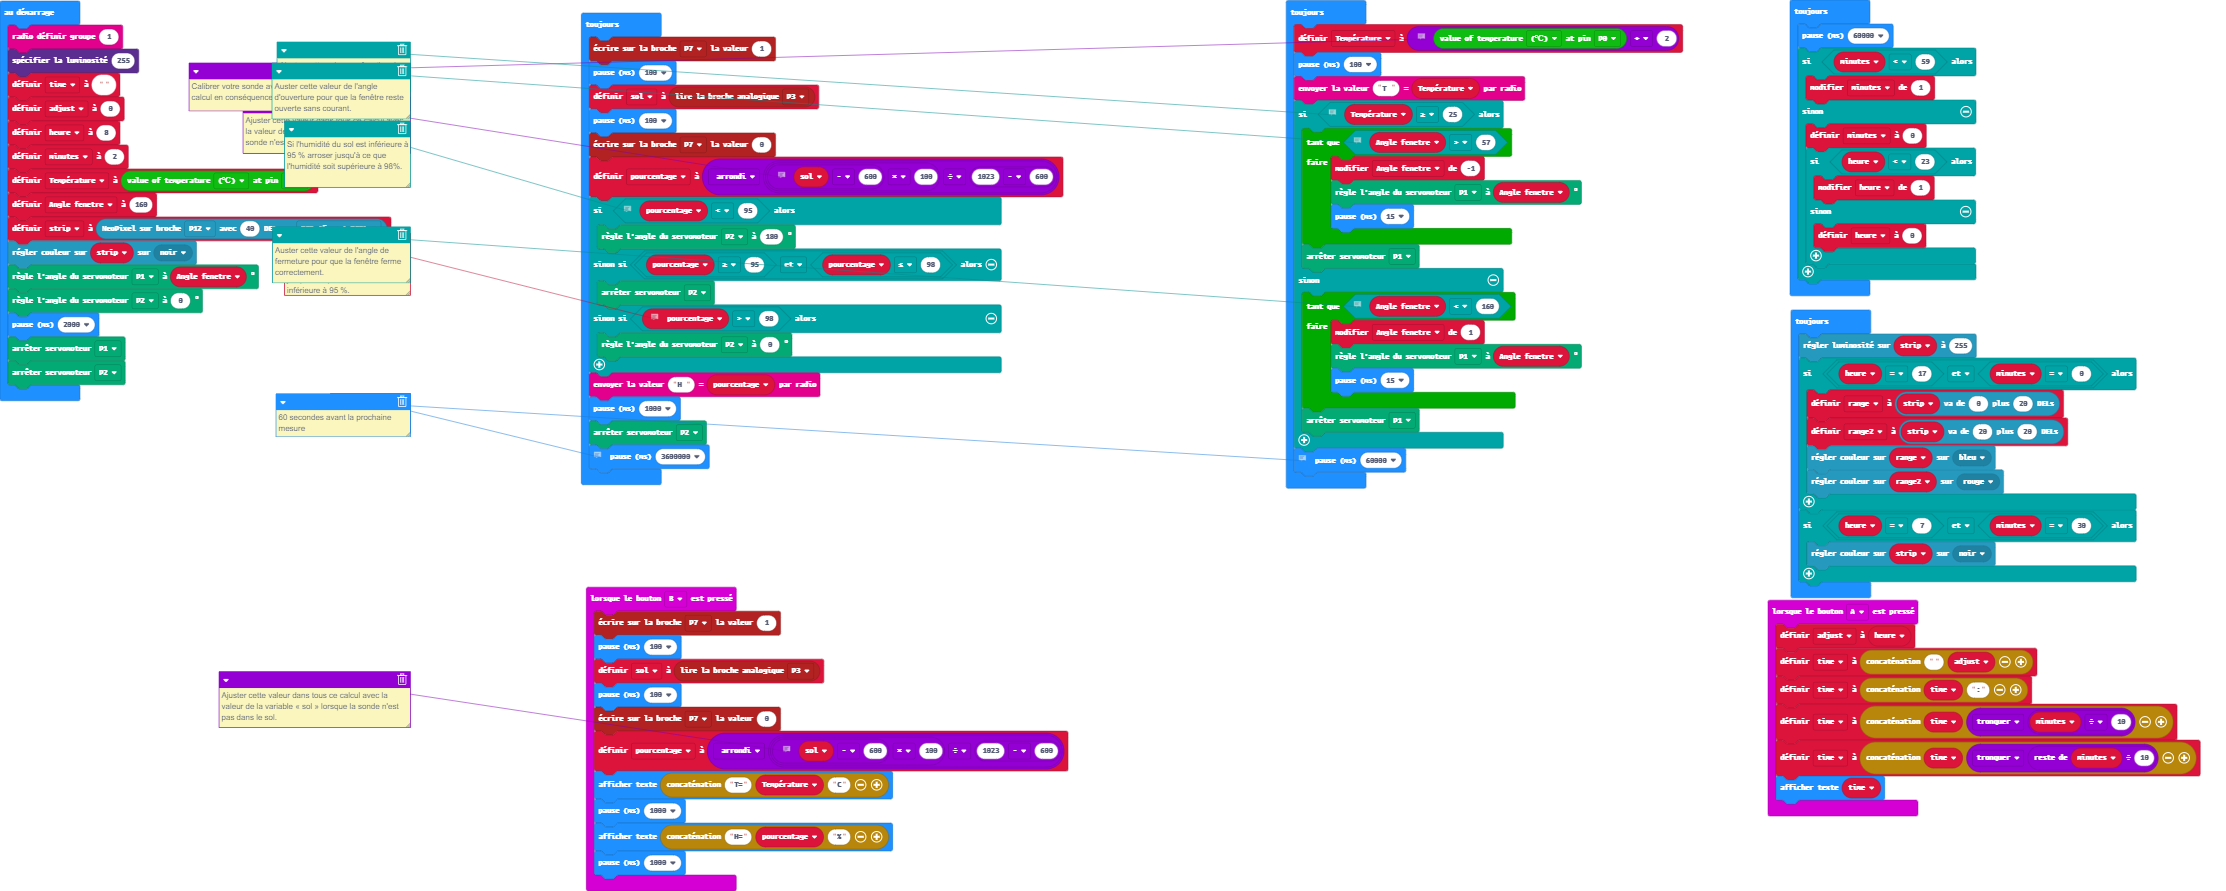
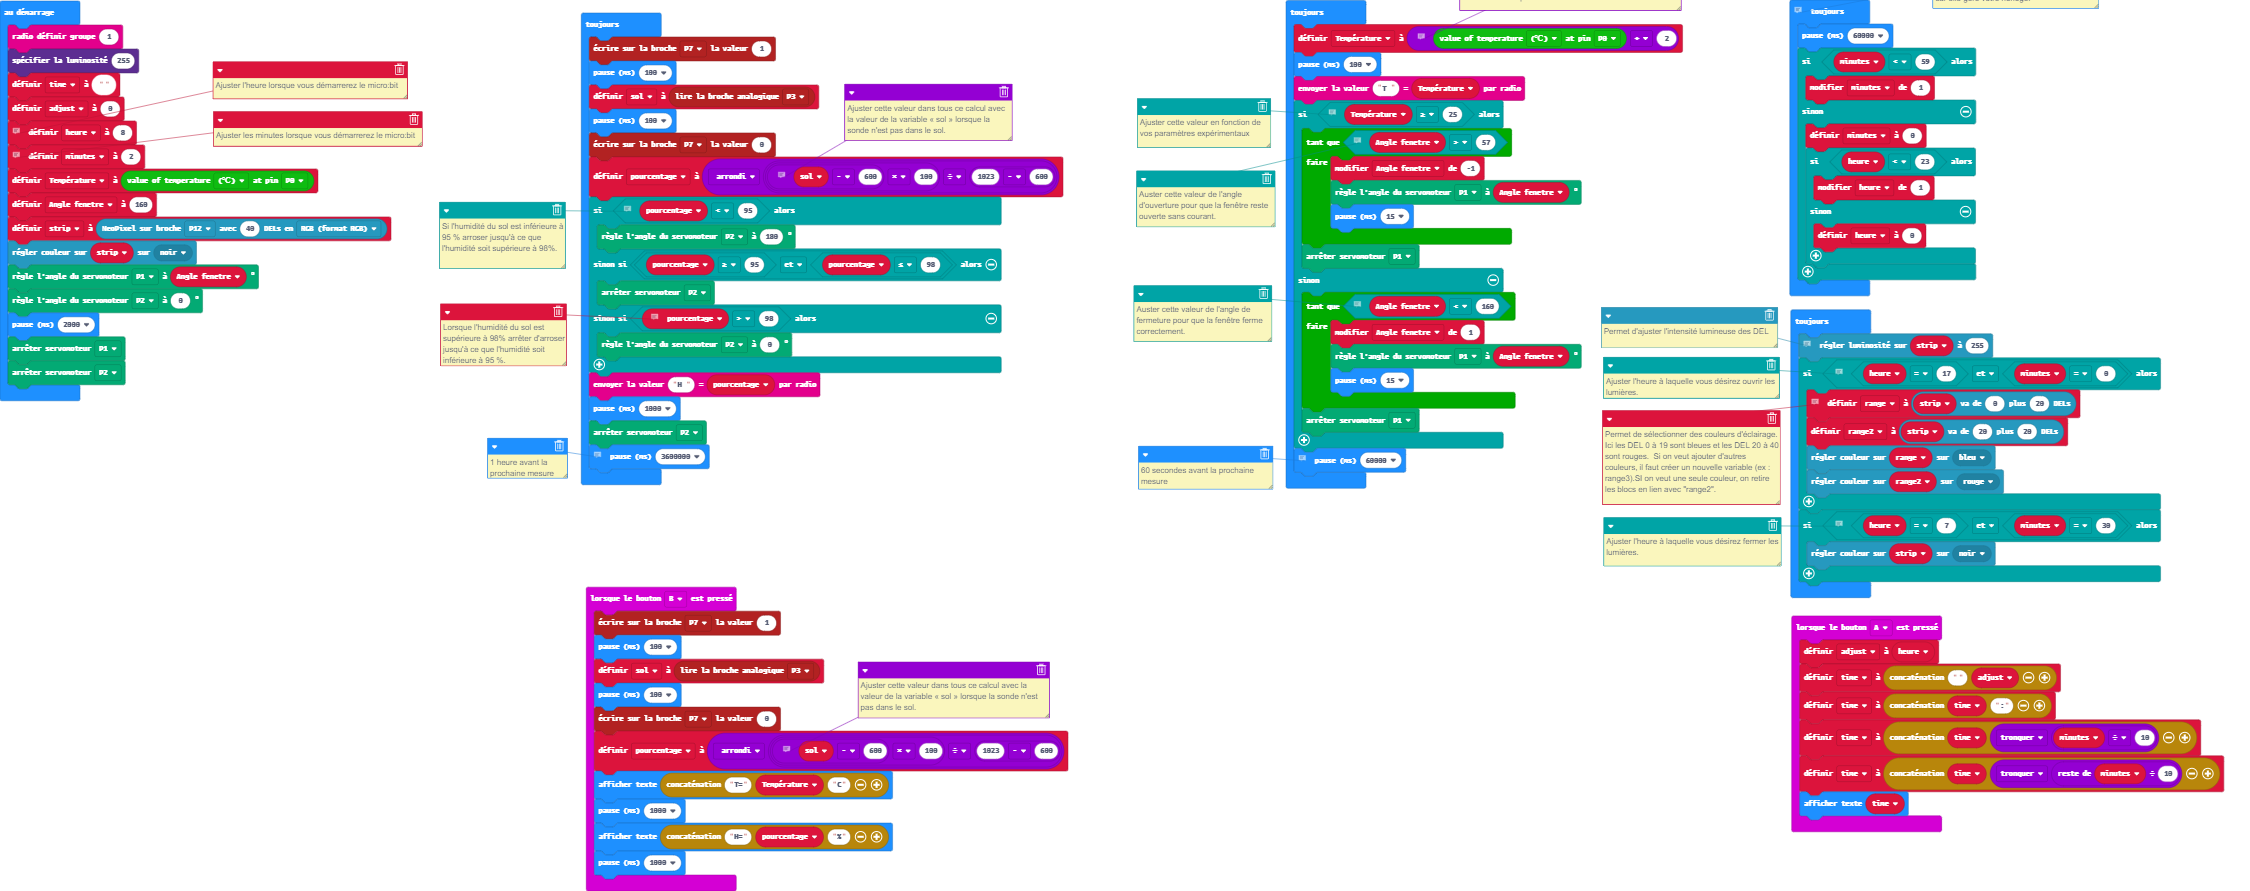
Mise à jour main.blocks, main.ts

diff --git a/main.ts b/main.ts
@@ -32,7 +32,9 @@ radio.setGroup(1)
 led.setBrightness(255)
 time = ""
 adjust = 0
+// Ajuster l'heure lorsque vous démarrerez le micro:bit
 heure = 8
+// Ajuster les minutes lorsque vous démarrerez le micro:bit
 minutes = 2
 Température = smarthome.ReadTemperature(TMP36Type.TMP36_temperature_C, AnalogPin.P0)
 let Angle_fenetre = 160
@@ -92,6 +94,7 @@ basic.forever(function () {
     // 60 secondes avant la prochaine mesure
     basic.pause(60000)
 })
+// Ne pas toucher à cette partie du programme car elle gère votre horloge.
 basic.forever(function () {
     basic.pause(60000)
     if (minutes < 59) {
@@ -106,13 +109,17 @@ basic.forever(function () {
     }
 })
 basic.forever(function () {
+    // Permet d'ajuster l'intensité lumineuse des DEL
     strip.setBrightness(255)
+    // Ajuster l'heure à laquelle vous désirez ouvrir les lumières.
     if (heure == 17 && minutes == 0) {
+        // Permet de sélectionner des couleurs d'éclairage.  Ici les DEL 0 à 19 sont bleues et les DEL 20 à 40 sont rouges.  Si on veut ajouter d'autres couleurs, il faut créer un nouvelle variable (ex : range3).SI on veut une seule couleur, on retire les blocs en lien avec "range2".
         range = strip.range(0, 20)
         range2 = strip.range(20, 20)
         range.showColor(neopixel.colors(NeoPixelColors.Blue))
         range2.showColor(neopixel.colors(NeoPixelColors.Red))
     }
+    // Ajuster l'heure à laquelle vous désirez fermer les lumières.
     if (heure == 7 && minutes == 30) {
         strip.showColor(neopixel.colors(NeoPixelColors.Black))
     }
